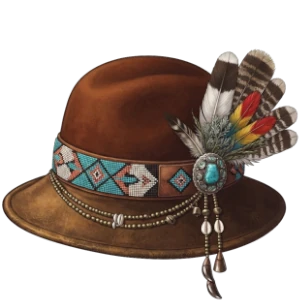
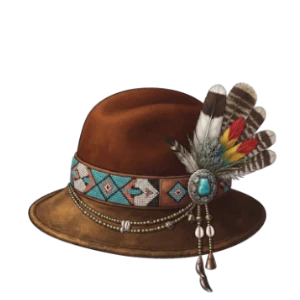
update horns

diff --git a/frontend/src/components/PetMain.vue b/frontend/src/components/PetMain.vue
@@ -85,6 +85,10 @@ let lookInterval = null
 
 
 function getHornAsset(level) {
+  if (level >= 50) return '/horns/50lvl.webp'
+  if (level >= 45) return '/horns/45lvl.webp'
+  if (level >= 40) return '/horns/40lvl.webp'
+  if (level >= 35) return '/horns/35lvl.webp'
   if (level >= 30) return '/horns/30lvl.webp'
   if (level >= 25) return '/horns/25lvl.webp'
   if (level >= 20) return '/horns/20lvl.webp'
@@ -229,12 +233,13 @@ onUnmounted(() => {
             <div class="absolute text-[#00BFFF] font-bold text-sm z-2 left-4 -top-3 drop-shadow-md">z</div>
           </div>
           <p class="bg-[#fbf3e0]"></p>
-
+          <PhotoFrame v-show="(location==='home' || location==='food')"/>
           <!-- Персонаж (тело и рога обернуты с :key для мгновенного отклика анимации pop) -->
-          <div :key="animKey" class="absolute flex justify-center items-center animate-pop w-45 h-45">
+          <div :key="animKey" class="absolute  flex justify-center items-center animate-pop w-45 h-45">
+
             <PetHeadwear/>
             <img :src="body" class="absolute w-45" alt="">
-            <img :src="getHornAsset(gameData.level)" class="absolute w-45" alt="">
+            <img :src="getHornAsset(gameData.level)" class="absolute w-45 " alt="">
             <img v-show="gameData.sick" src="/character/drunk.webp" class="absolute w-45" alt="">
             <img v-show="gameData.sick && body==='/character/fat_body.webp'" src="/character/sick_fat.webp"
                  class="absolute w-45" alt="">
@@ -297,7 +302,7 @@ onUnmounted(() => {
           <PetSmoke :status-smoke="statusSmoke"/>
           <PetShower :status-shower="statusShower"/>
           <Poop v-show="gameData.isPooped && (location==='home' || location==='food')"/>
-          <PhotoFrame v-show="(location==='home' || location==='food')"/>
+
 
 
         </div>

diff --git a/frontend/src/components/PetHeadwear.vue b/frontend/src/components/PetHeadwear.vue
@@ -9,11 +9,13 @@ import {gameData} from "@/scripts/useGameStore.js";
   <div class="absolute inset-x-0 flex justify-center items-center pointer-events-none z-10"
        :class="{
        '-translate-y-1': gameData.level < 10,
-       '-translate-y-4': gameData.level >= 10 && gameData.level < 15,
-       '-translate-y-7': gameData.level >= 15 && gameData.level < 20,
-       '-translate-y-9': gameData.level >= 20 && gameData.level < 25,
-       '-translate-y-10': gameData.level >= 25 && gameData.level < 30,
-       '-translate-y-13': gameData.level >= 30
+       '-translate-y-5': gameData.level >= 10 && gameData.level < 15,
+       '-translate-y-8  -translate-x-7 rotate-25': gameData.level >= 15 && gameData.level < 20,
+       '-translate-y-10  -translate-x-7 rotate-25': gameData.level >= 20 && gameData.level < 25,
+       '-translate-y-11  -translate-x-7 rotate-25': gameData.level >= 25 && gameData.level < 30,
+       '-translate-y-13  -translate-x-7 rotate-25': gameData.level >= 30  && gameData.level < 35,
+       '-translate-y-15  -translate-x-7 rotate-25': gameData.level >= 35  && gameData.level < 40,
+       '-translate-y-22': gameData.level >= 40
      }">
 
   <img

diff --git a/frontend/src/components/PhotoFrame.vue b/frontend/src/components/PhotoFrame.vue
@@ -21,7 +21,7 @@ function finishEditing() {
 </script>
 
 <template>
-  <div class="absolute w-19 top-0 right-0">
+  <div class="absolute w-19 top-0 right-0 ">
     <div class="relative">
       <img src="/gamePlay/photo_frame.webp" alt="" class="w-full h-auto">
 
